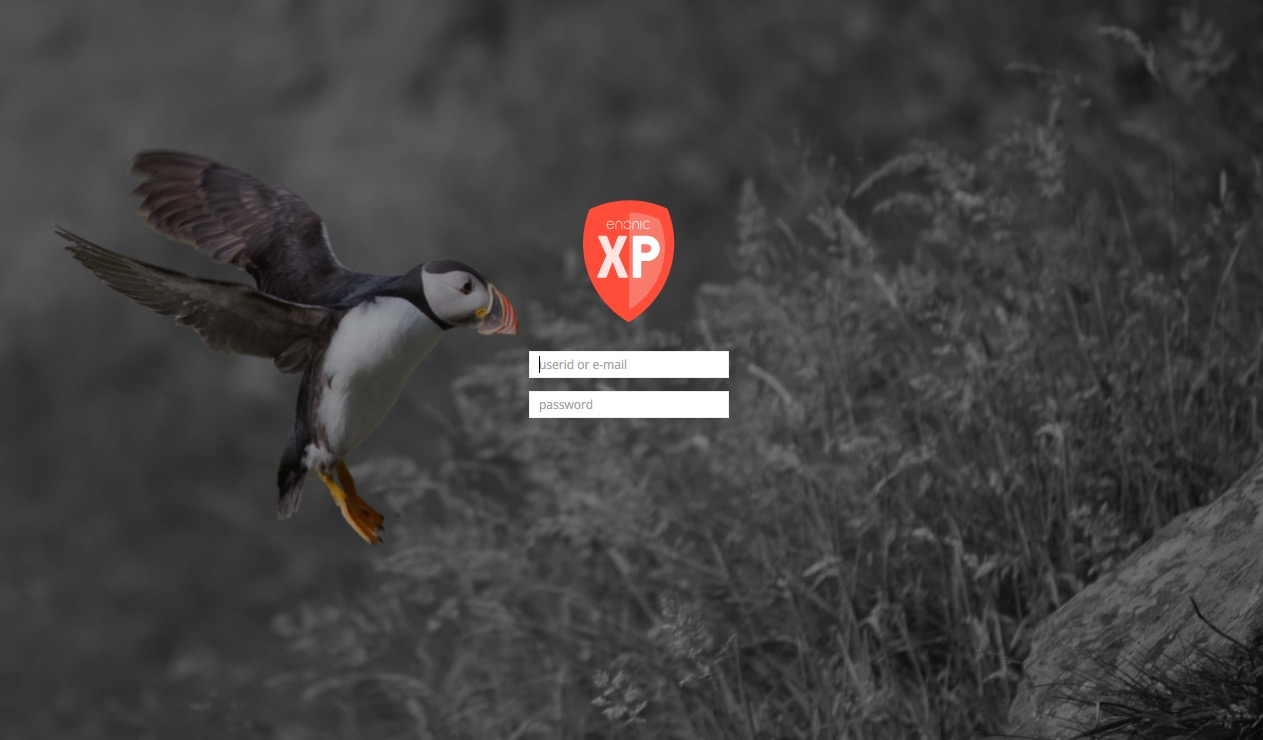
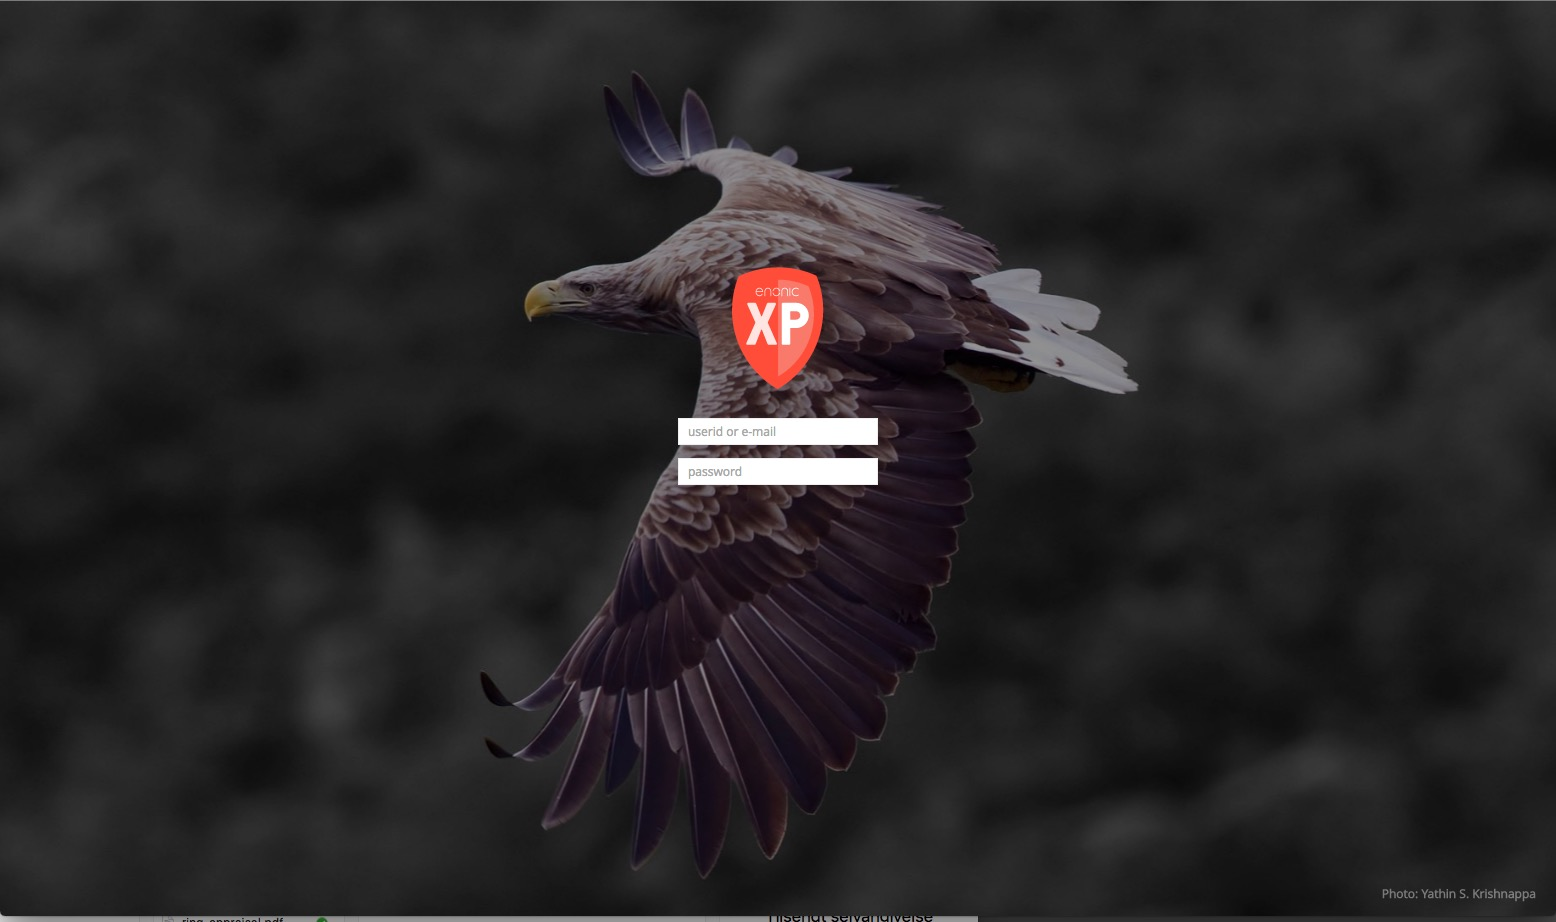
Update login and home page screenshots.

diff --git a/doc/admintools/contentstudio/content-tree.rst b/doc/admintools/contentstudio/content-tree.rst
@@ -11,7 +11,7 @@ child content collapsed under parent content. Parent content will have a gray tr
 to expand or collapse the view of its children. The content tree can also be navigated with the keyboard arrow keys. The top of the content
 tree has buttons to select all displayed content, clear selected content and refresh the tree.
 
-.. image:: images/content-tree-grid.png
+.. image:: images/content-tree-grid.jpg
 
 Information about the content is displayed in three columns. The first column has an icon based on the type of content. A gray triangle will
 appear to the left of the icon if the content has children content. The first column also has a display name and under this is the path
